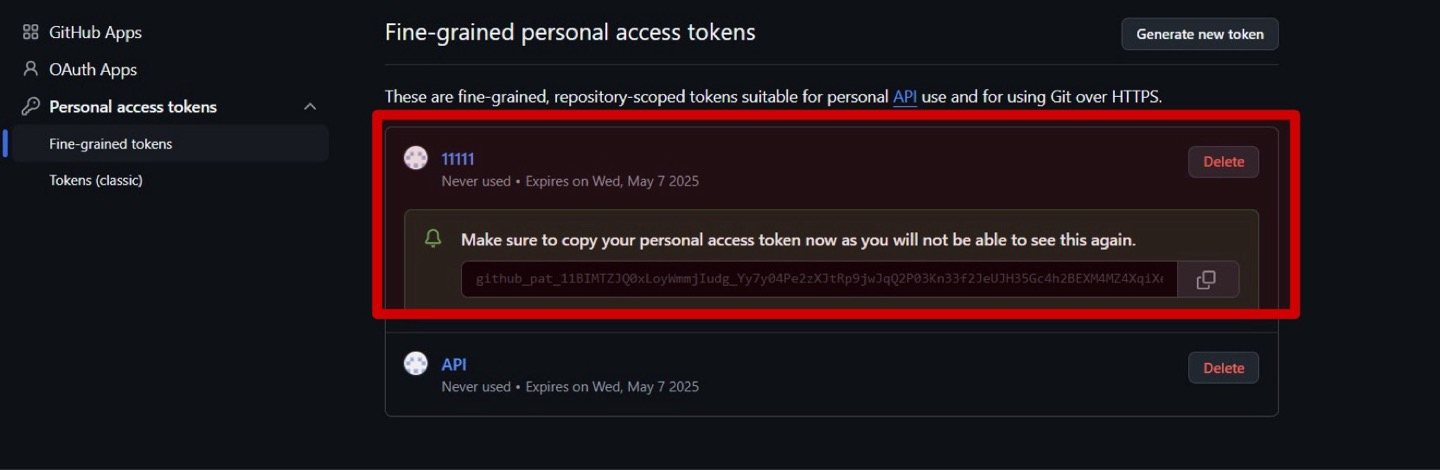
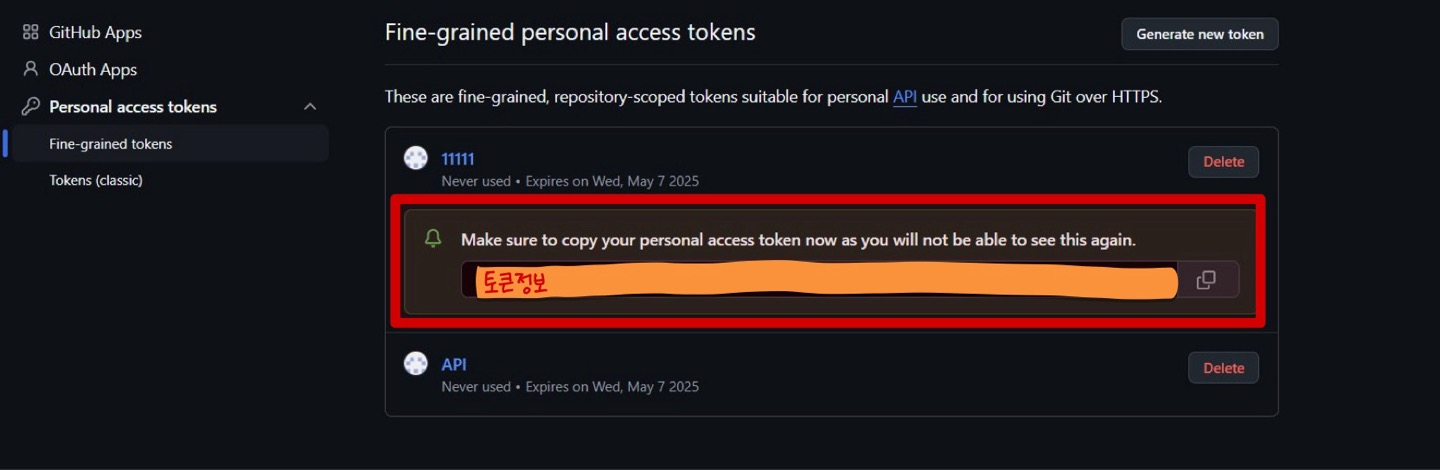
Initial commit

Changed region(s): [[0.25, 0.2085, 0.9062, 0.7149]]

diff --git a/README.md b/README.md
@@ -52,3 +52,7 @@ $I_d^* = I_{\text{valid}} - I_{fb}^*$
 
 최종 점수 계산 공식:\
 $S = 3P_{fb}^* + 2P_d^* + 2I_{fb}^* + 1I_d^*$
+
+
+# token 생성하는법
+/workspaces/reposcore-js1/creative token/github_token.md
